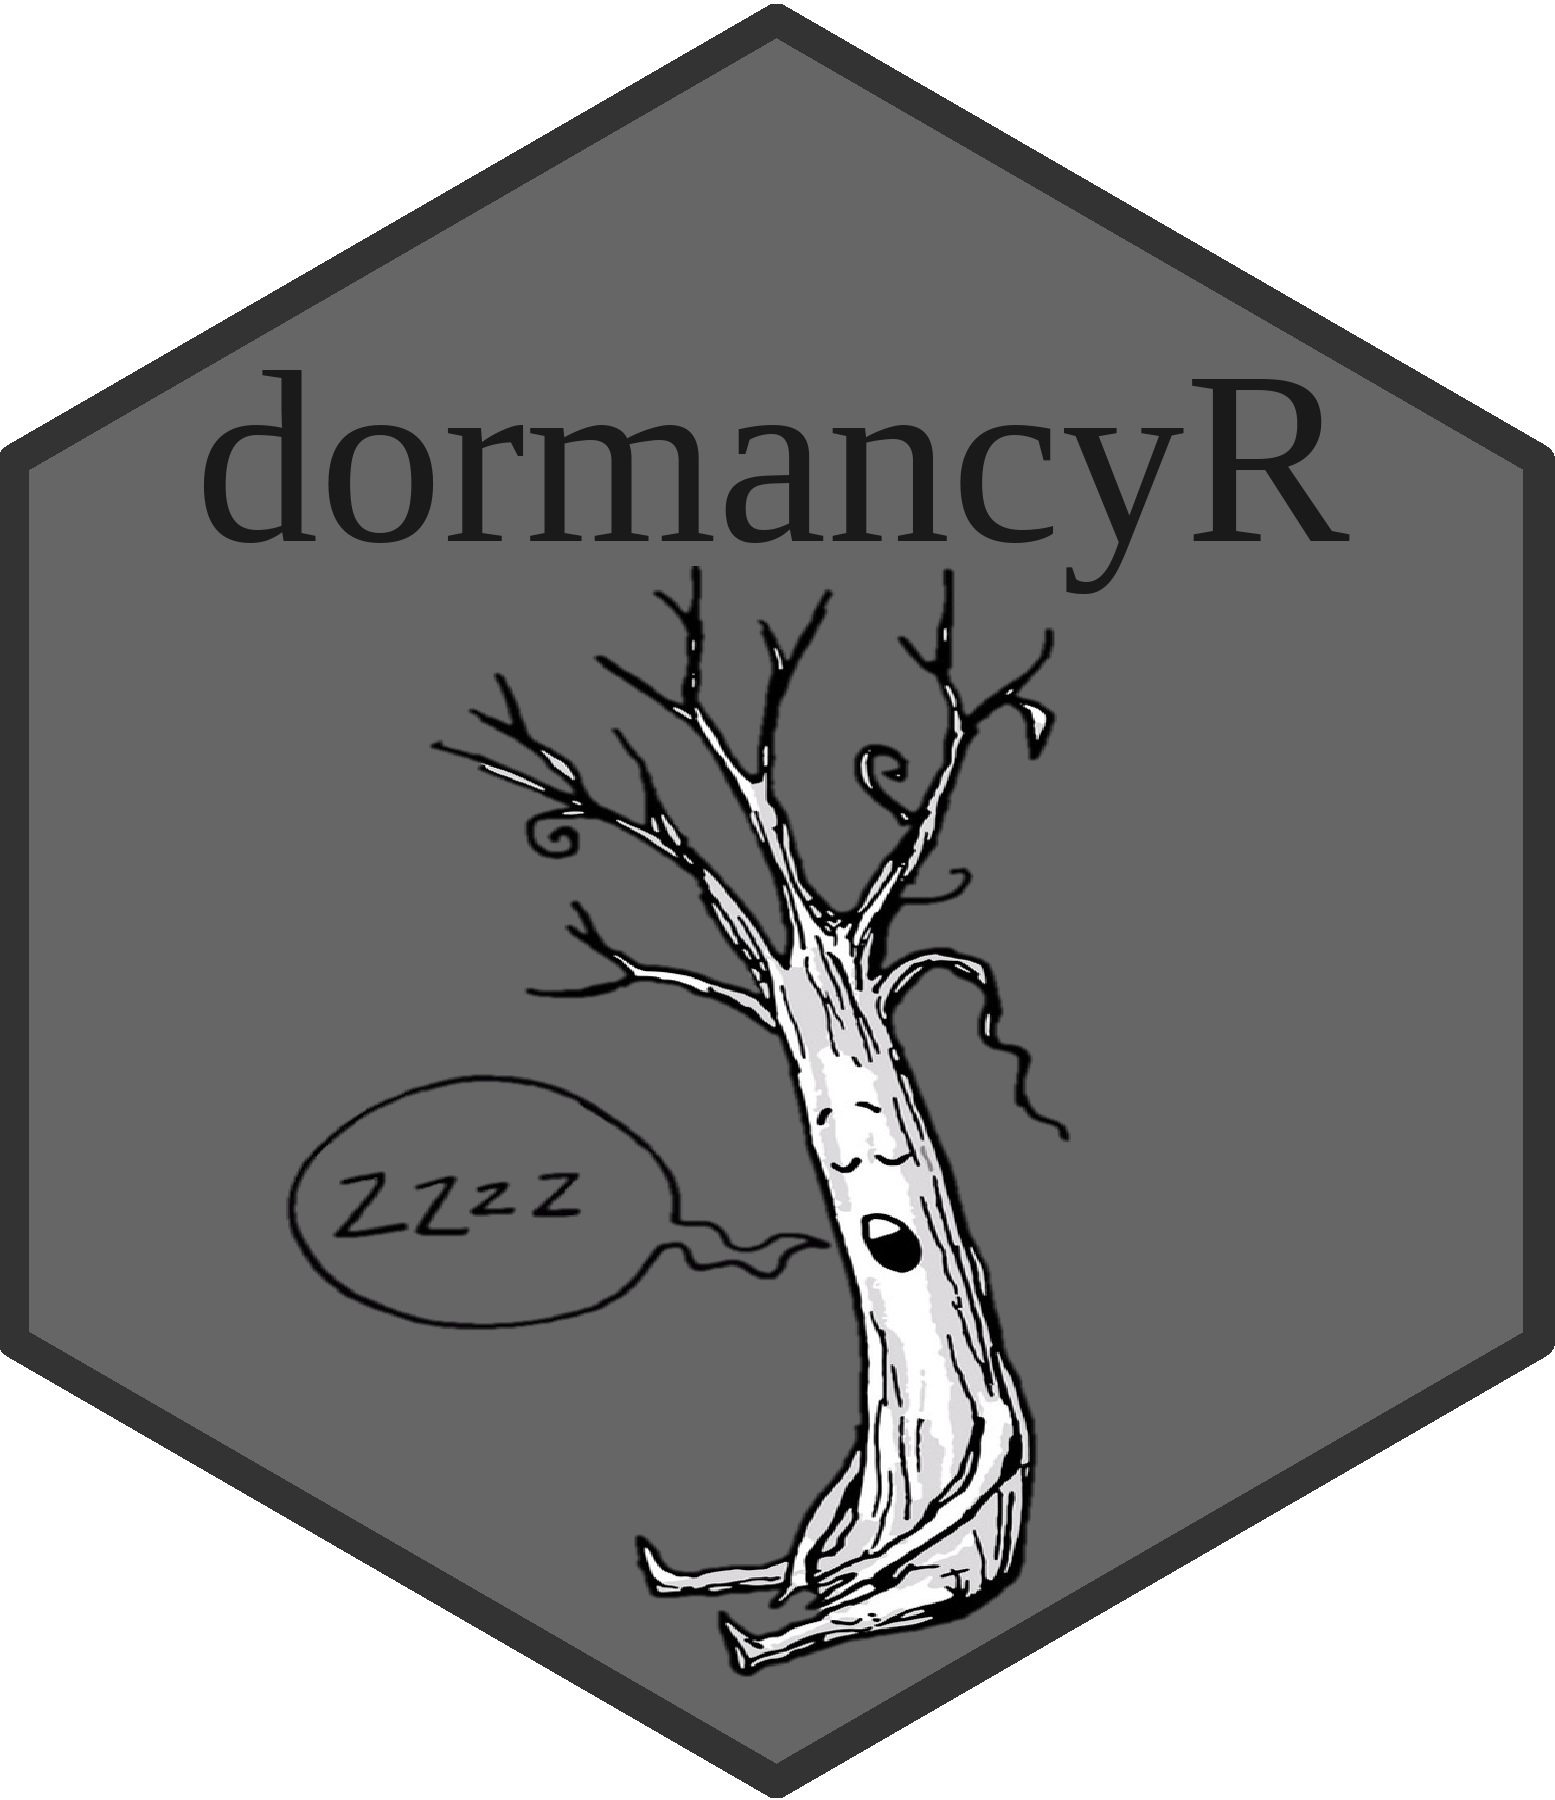
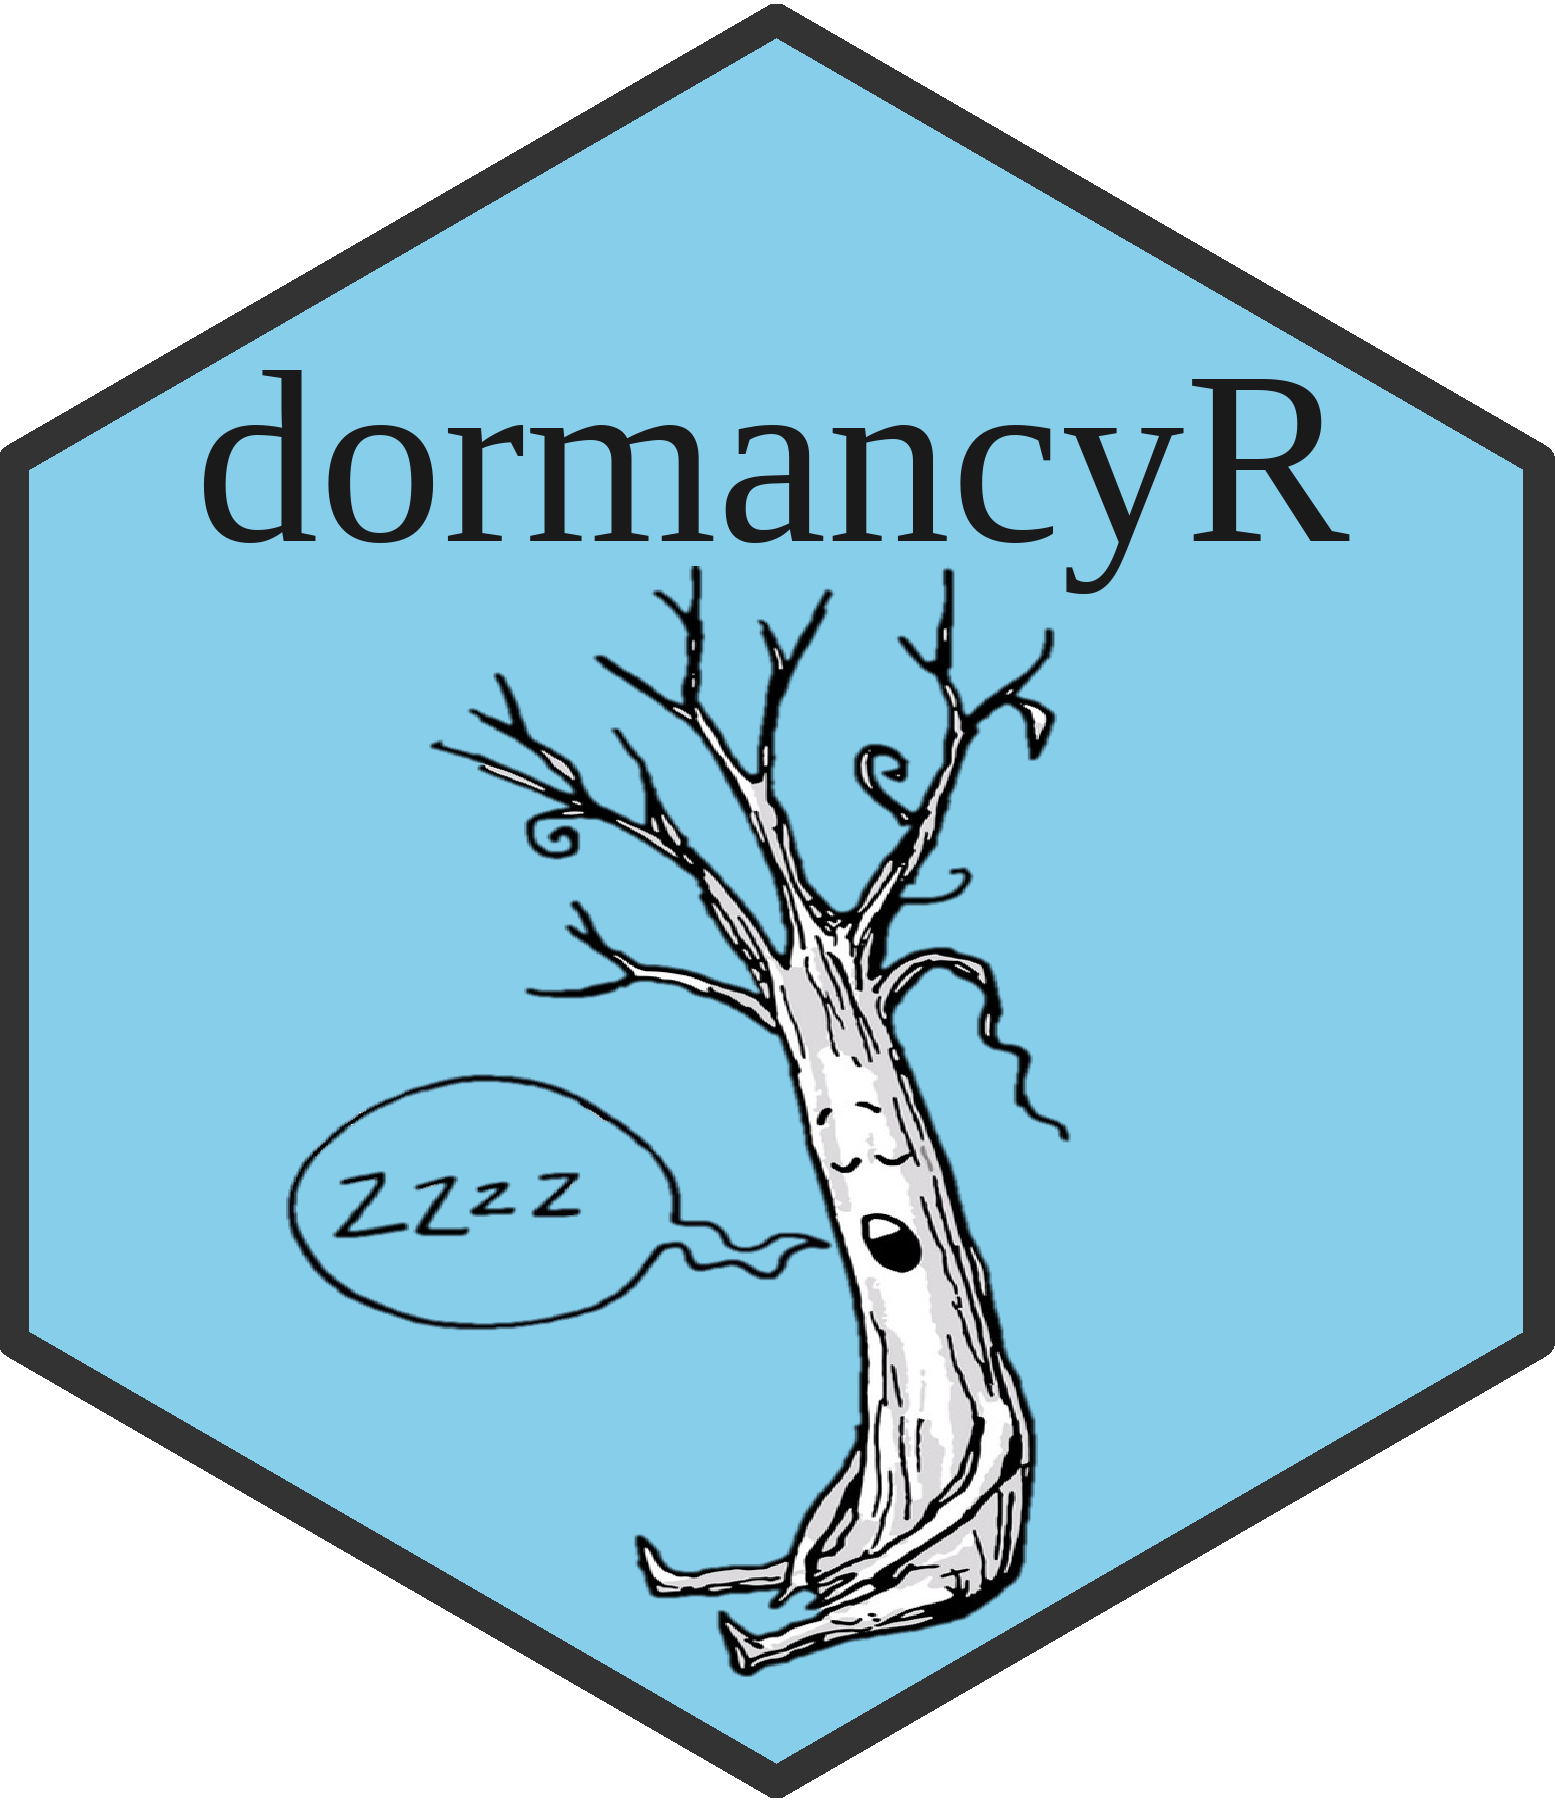
new hex sticker

diff --git a/README.md b/README.md
@@ -1,5 +1,5 @@
 
-<img src="vignettes/dormancyR_3.png" alt = "dormancyR logo" align = "right" width = "25%" height = "25%"/>
+<img src="vignettes/dormancyR.png" alt = "dormancyR logo" align = "right" width = "25%" height = "25%"/>
 
 <!-- README.md is generated from README.Rmd. Please edit that file -->
 
